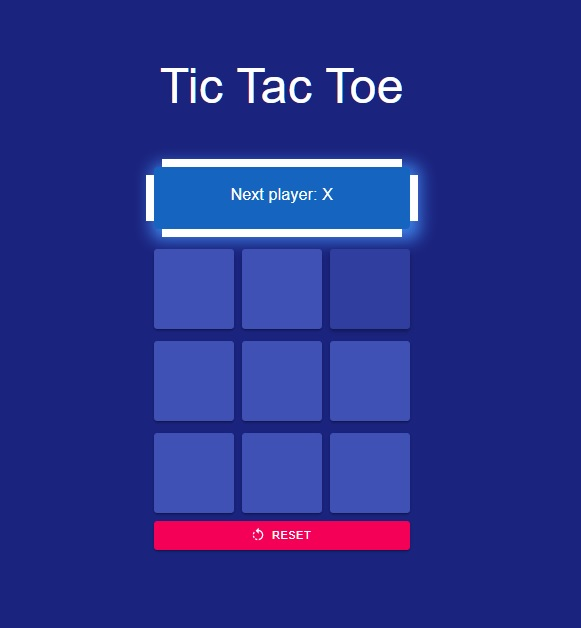
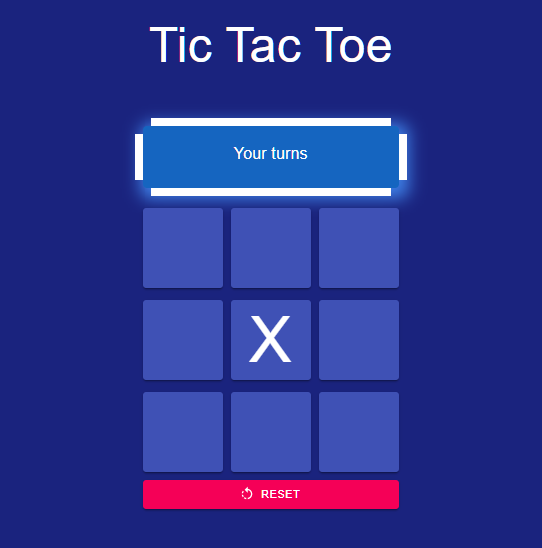
change the mod of the game(one player against AI)

Changed region(s): [[0.2362, 0.031, 0.7675, 0.9307]]

diff --git a/src/components/Board.jsx b/src/components/Board.jsx
@@ -14,6 +14,7 @@ class Board extends Component {
   //Constructor of this class
   constructor(props) {
     super(props);
+
     this.state = {
       /*
        *btns    : 9 squares of the app
@@ -108,6 +109,120 @@ class Board extends Component {
     return true;
   }
 
+  checkArrayEmpty() {
+    for (let i = 0; i < 9; i++) {
+      if (this.state.btns[i] != null) return false;
+    }
+    return true;
+  }
+  //------------------------------------
+  //Write an AI using minMax
+  aIMove() {
+    //Copy my state
+    var squares = this.state.btns.slice();
+
+    //Here is for the first move (random place at first)
+    if (this.checkArrayEmpty()) {
+      const ran = Math.floor(Math.random() * 10) % 9;
+      squares[ran] = "X";
+      //Update state
+      this.setState({
+        btns: squares,
+        xIsNext: !this.state.xIsNext,
+      });
+    }
+    //Here I use the minimax algorithm for finding the best move
+    else {
+      const AI = "X";
+      const player = "O";
+
+      var bestVal = -1000;
+      var move = -1;
+      var value;
+
+      for (let i = 0; i < 9; i++) {
+        if (squares[i] === null) {
+          squares[i] = AI;
+          value = this.minMax(squares, 0, false, AI, player);
+          squares[i] = null;
+          if (value > bestVal) {
+            bestVal = value;
+            move = i;
+          }
+        }
+      }
+      //AI move
+      squares[move] = AI;
+      this.setState({
+        btns: squares,
+        xIsNext: !this.state.xIsNext,
+      });
+    }
+  }
+  //------------------------------------
+  //MinMax algorithm for finding the best move
+  minMax(squares, depth, isMax, AI, player) {
+    //Copy my state
+    const status = this.calculateWinner(squares);
+
+    //The termination conditions for recursive minimax function
+    if (status) {
+      if (status === player) {
+        return -10;
+      } else {
+        return +10;
+      }
+    } else {
+      if (this.checkArrayFull()) return 0;
+    }
+
+    //define variable for storing data
+    var value;
+
+    //Maximize node
+    if (isMax) {
+      var maxVal = -11;
+      for (let i = 0; i < 9; i++) {
+        if (squares[i] === null) {
+          squares[i] = AI;
+          value = this.minMax(squares, depth + 1, !isMax, AI, player);
+          squares[i] = null;
+          if (value > maxVal) {
+            maxVal = value;
+          }
+        }
+      }
+      return maxVal;
+    }
+    //Minimize node
+    else {
+      var minVal = 11;
+      for (let i = 0; i < 9; i++) {
+        if (squares[i] === null) {
+          squares[i] = player;
+          value = this.minMax(squares, depth + 1, !isMax, AI, player);
+          squares[i] = null;
+          if (value < minVal) {
+            minVal = value;
+          }
+        }
+      }
+      return minVal;
+    }
+  }
+
+  //------------------------------------
+  //Call the aIMove at first
+  componentDidMount() {
+    this.aIMove();
+  }
+
+  //Call the aIMove after each render(If AI turns)
+  componentDidUpdate() {
+    const a = this.state.xIsNext ? "X" : "O";
+    if (a === "X") this.aIMove();
+  }
+
   //------------------------------------
   render() {
     //------------------------------------
@@ -119,13 +234,14 @@ class Board extends Component {
     let status = this.calculateWinner(this.state.btns);
     var colorM;
     if (status) {
-      status = "Player " + status + " win the match";
+      if (status === "X") status = "AI win the match";
+      else status = "You win the match";
       colorM = "status winStatus";
     } else if (this.checkArrayFull()) {
       status = "Its a tie!!";
       colorM = "status tieStatus";
     } else {
-      status = "Next player: " + (this.state.xIsNext ? "X" : "O");
+      status = "Your turns";
       colorM = "status playStatus";
     }
 

diff --git a/src/components/style.css b/src/components/style.css
@@ -1,4 +1,4 @@
-/*Change the color of root*/
+
 body {
   background-color: #1a237e;
 }

diff --git a/README.md b/README.md
@@ -3,18 +3,21 @@ This is the third project of the Internet engineering course that I have written
 
 ## What is Tic Tac Toe
 Tic-tac-toe is a paper-and-pencil game for two players, X and O, who take turns marking the spaces in a 3×3 grid. The player who succeeds in placing three of their marks in a diagonal, horizontal, or vertical row is the winner. It is a solved game with a forced draw assuming best play from both players.
-> more info : https://en.wikipedia.org/wiki/Tic-tac-toe
+> more info: https://en.wikipedia.org/wiki/Tic-tac-toe
 
 ## About my App
 ![](img_game.jpg)
 
 The site below helped me a lot:
-> Tutorial: Intro to React : https://reactjs.org/tutorial/tutorial.html
+> Tutorial: Intro to React: https://reactjs.org/tutorial/tutorial.html
 
 for designing, I used material-UI and CSS style for designing my app.
-> Material-ui : https://material-ui.com/getting-started/installation/
+> Material-ui: https://material-ui.com/getting-started/installation/
 
-## Libraries ans Package that I used them
+In this game, You play against AI. I used a MinMax algorithm for AI. But I have to point out one thing that AI starts the match!
+> MinMax: https://www.javatpoint.com/mini-max-algorithm-in-ai  
+
+## Libraries and Packages that I used them
 * Node.js
 * yarn
 * react
